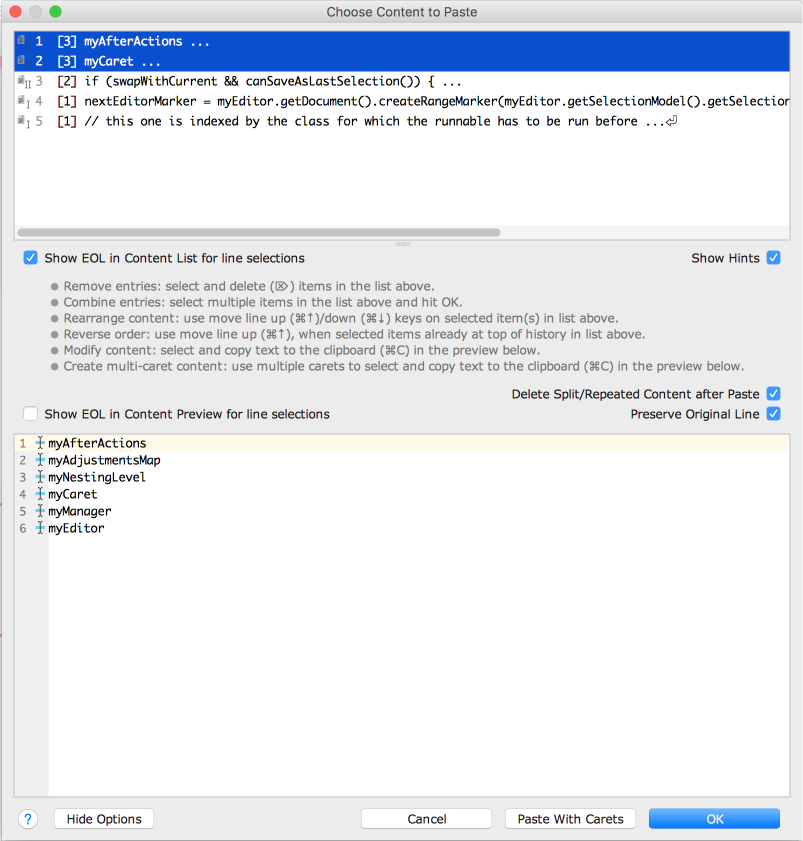
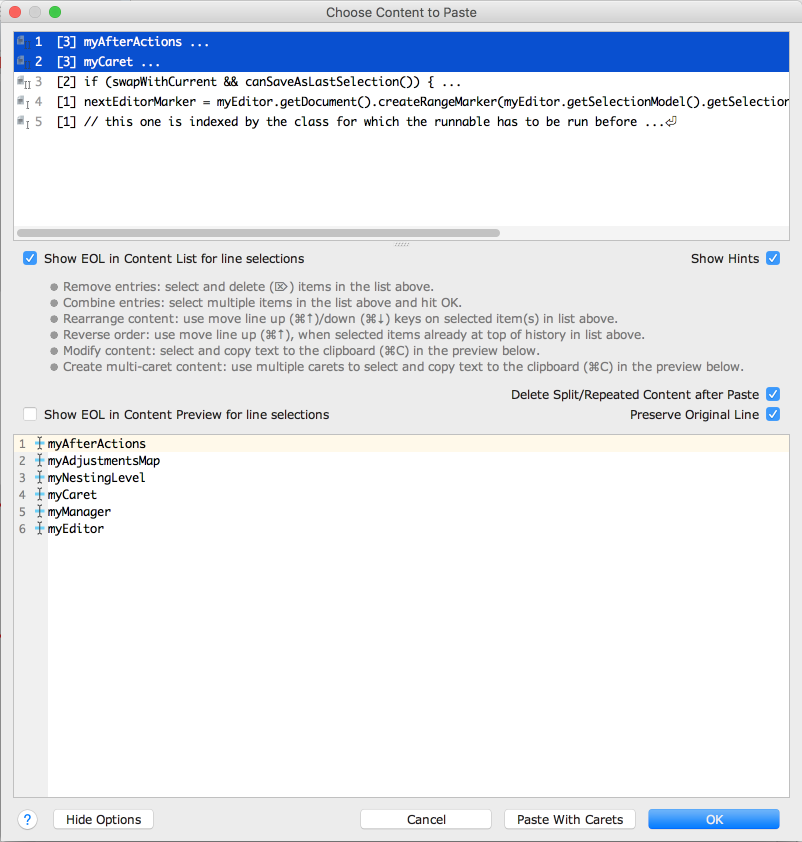
add screenshots of toolbar and caret search options dialog

diff --git a/README.md b/README.md
@@ -73,6 +73,8 @@ Adds missing editor actions for end of word navigation but that is just the begi
 
 * Add: MissingInAction toolbar
 
+  ![Toolbar](assets/images/Toolbar.png) 
+
 * Add: **dash-case**, **dot.case** and **slash/case** to on paste preservation options
 
 * Add: number generating action. For now only for multiple carets.
